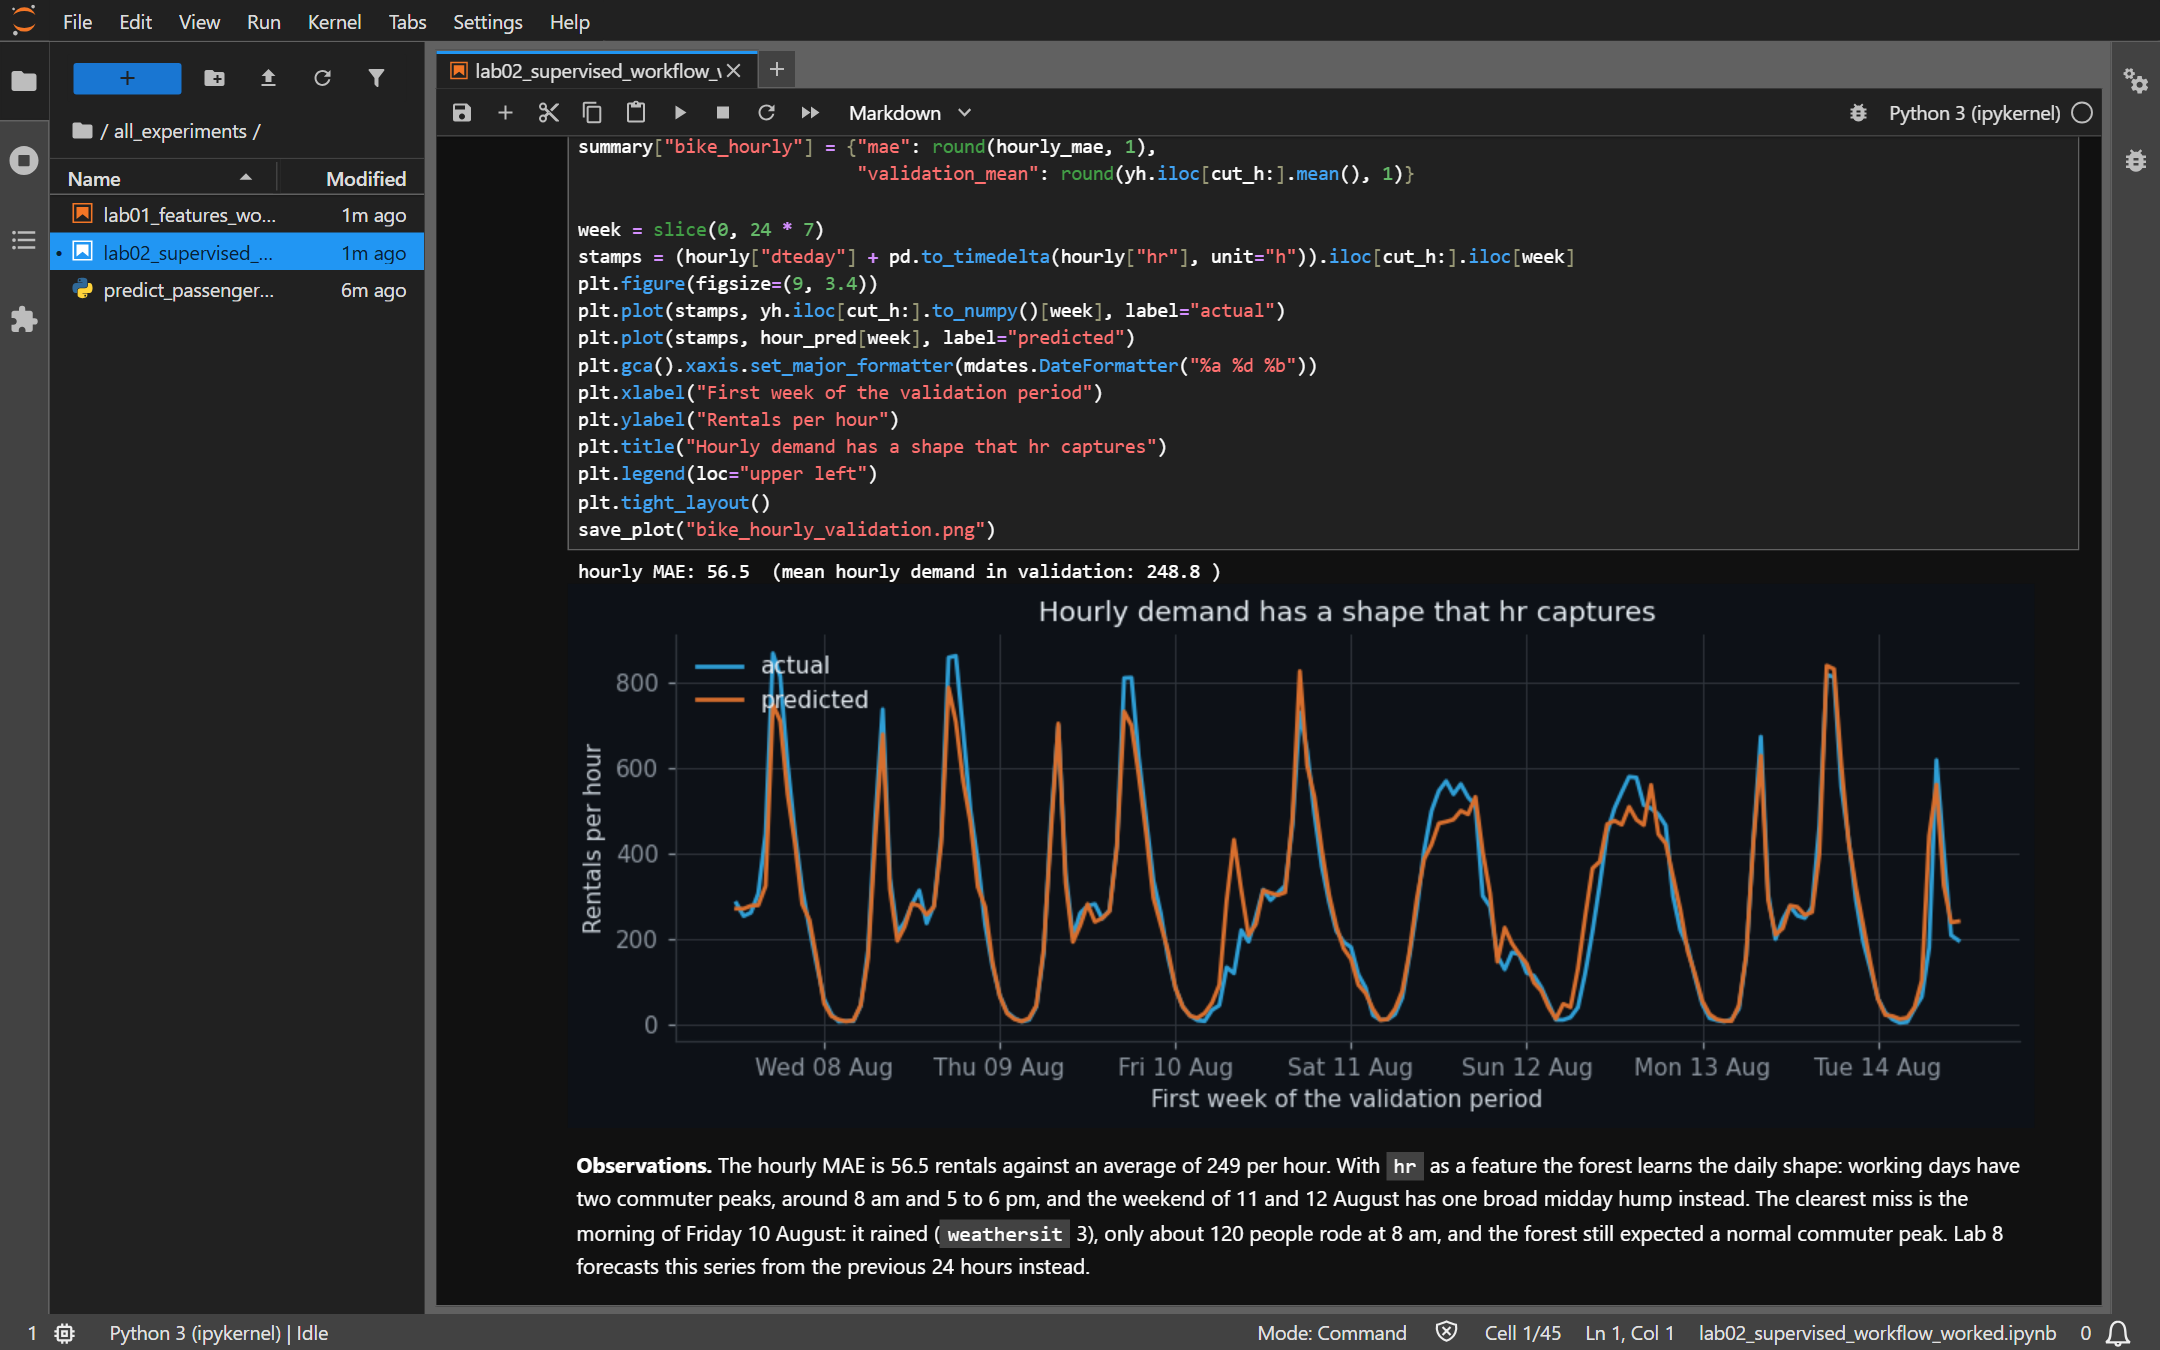
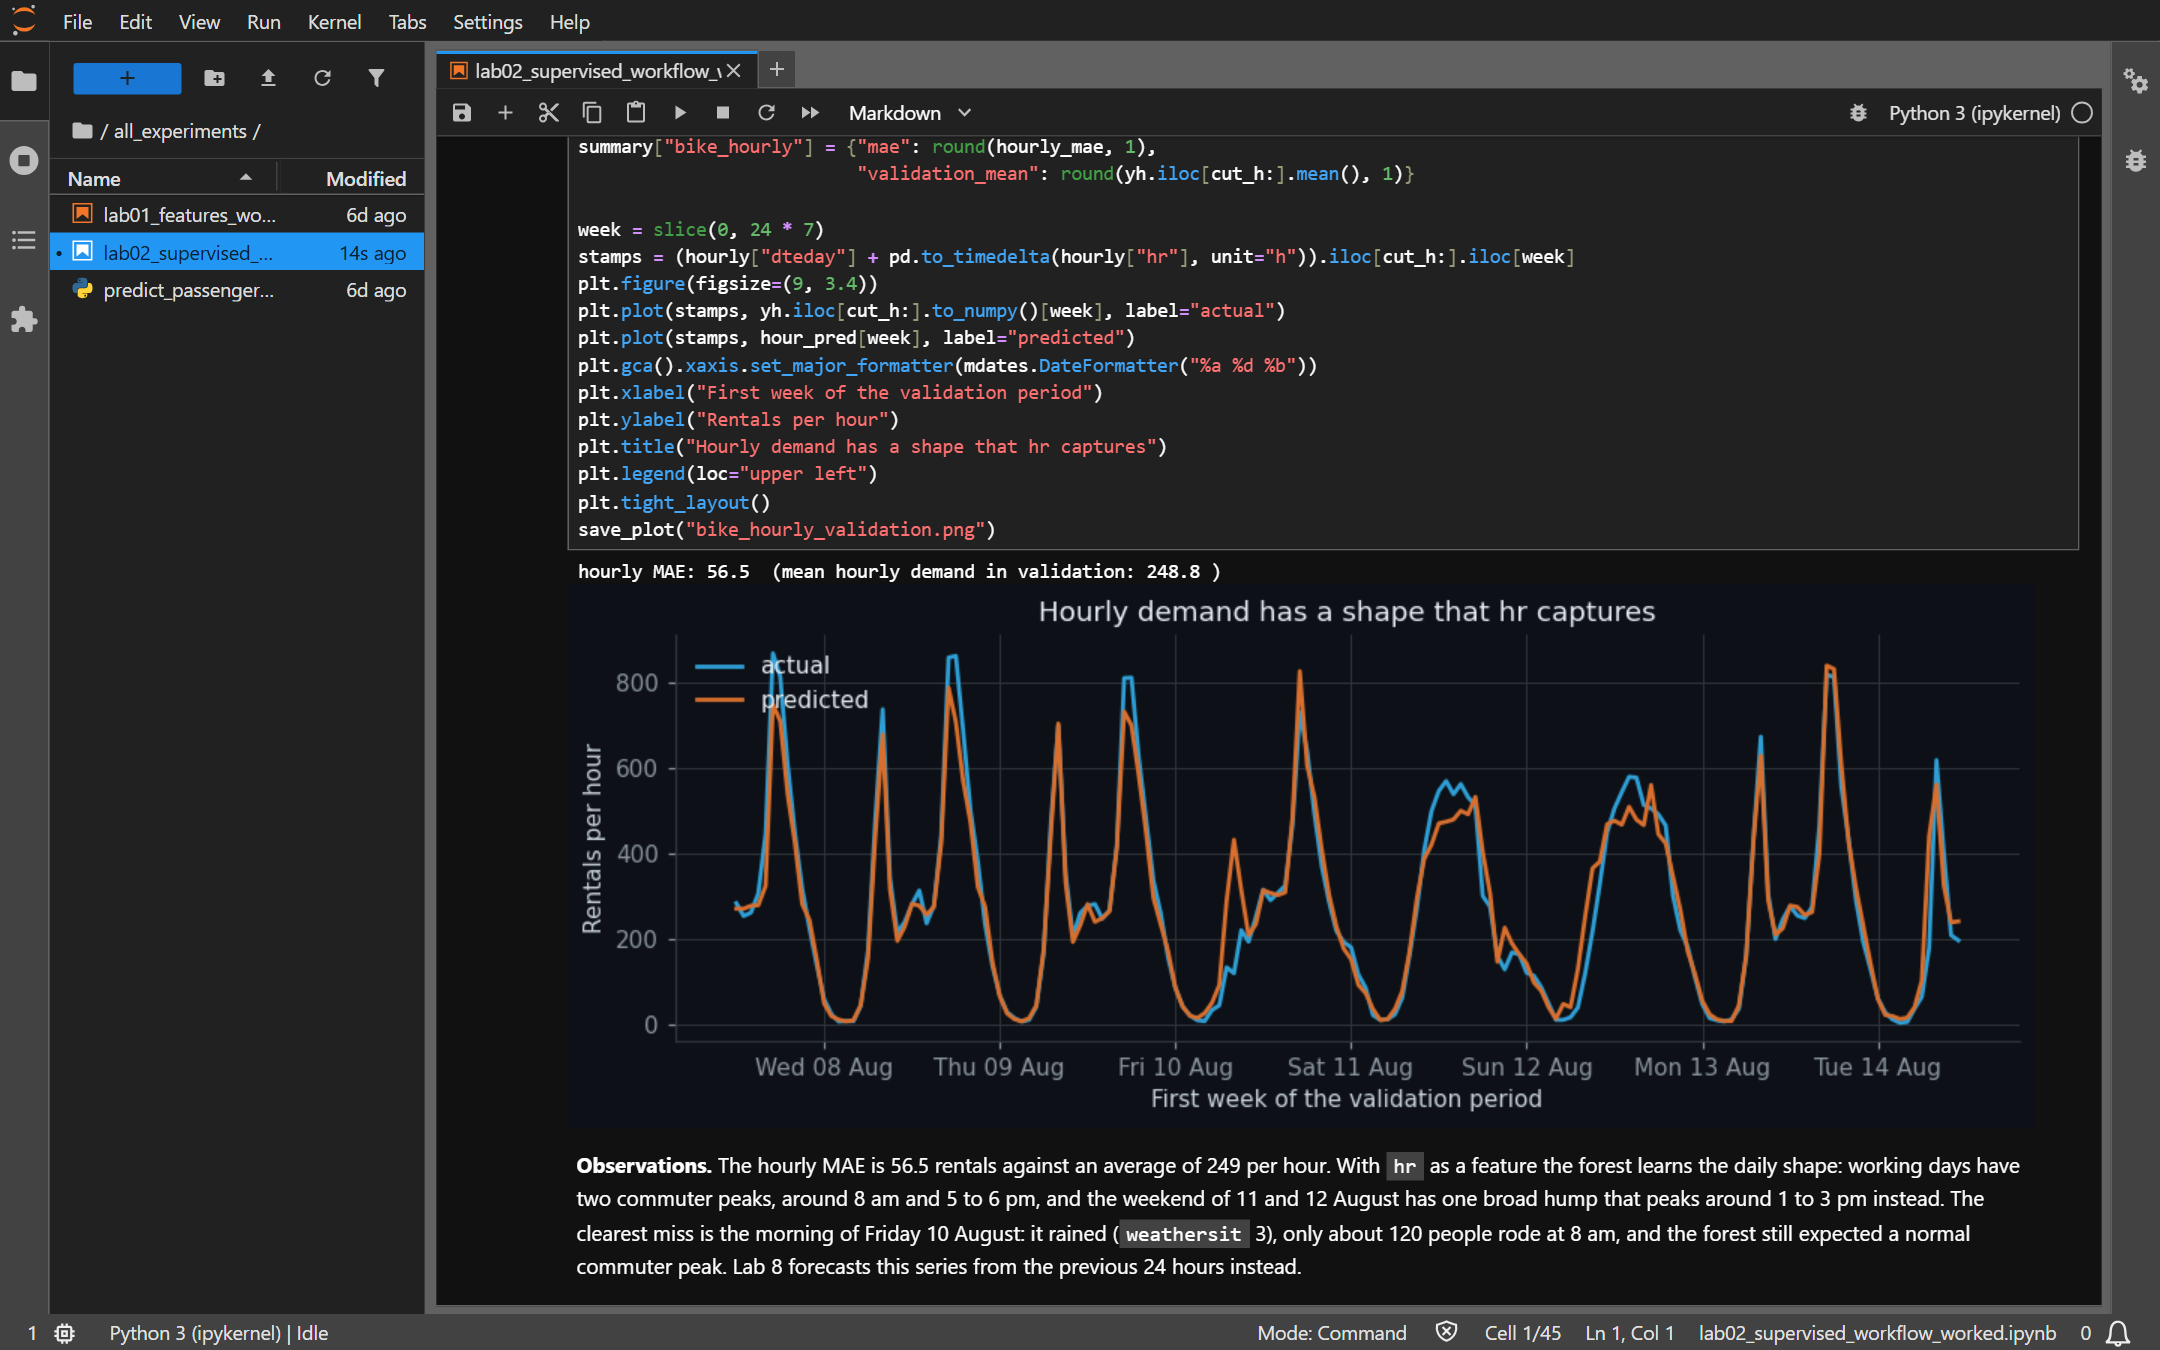
Correct four claims after checking them against the data
The heavier-smoker residual band is about $7,500 (median $7,458), not
$7,000, and 14 non-smokers sit $11,000 to $20,000 above their
predictions. Weekend bike demand peaks around 1 to 3 pm. A linear SVM
is not measurably faster to fit than the RBF one, so the Lab 3 note now
gives the reasons that hold: one setting fewer and readable weights.

Changed region(s): [[0.2792, 0.8711, 0.9306, 0.9644], [0.1551, 0.1867, 0.1861, 0.2178]]

diff --git a/README.md b/README.md
@@ -129,7 +129,7 @@ grade `G2` and the error drops to 0.76, a score nobody can get on enrolment day.
     <td><img src="results/lab02/titanic_cross_validation.png" alt="Cross-validated ROC AUC with fold standard deviations for each C and class weight"></td>
   </tr>
   <tr>
-    <td>Smokers split into two residual bands: lean smokers come out about $9,000 too high, smokers with a BMI of 30 or more about $7,000 too low. A linear model without an interaction term cannot fix that.</td>
+    <td>Smokers split into two residual bands: lean smokers come out about $9,000 too high, smokers with a BMI of 30 or more about $7,500 too low. A linear model without an interaction term cannot fix that.</td>
     <td>All ten settings of C and class weight score between 0.847 and 0.850, inside a fold to fold spread of about 0.02. The pick (C=0.1, balanced) tests at 0.837.</td>
   </tr>
 </table>
